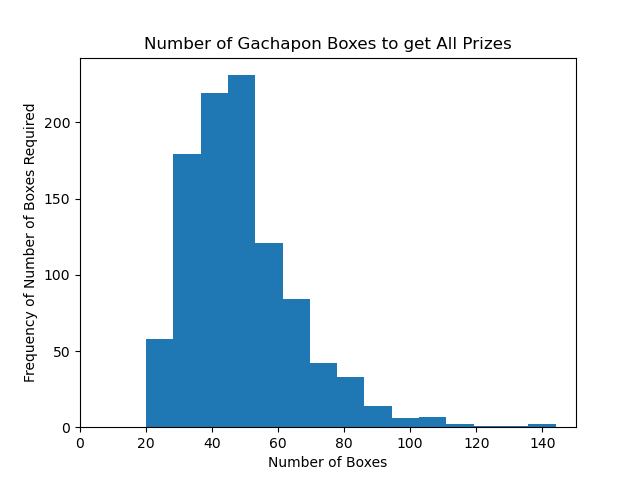
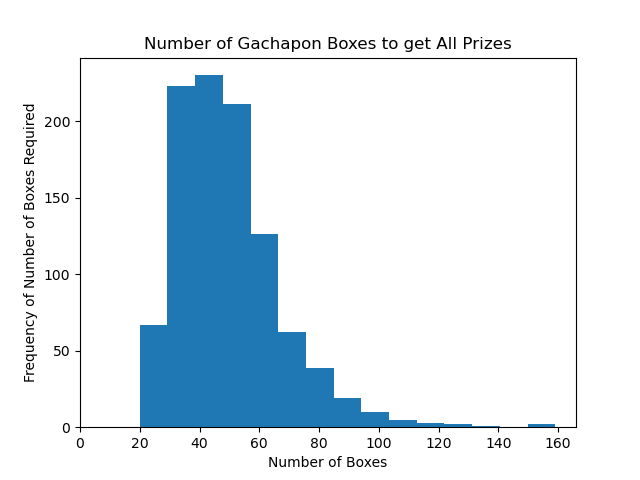
gachapon is working

diff --git a/lab5/gachapon.py b/lab5/gachapon.py
@@ -1,0 +1,60 @@
+#!/usr/bin/env python
+
+import numpy as np
+import statistics
+import argparse
+
+class GachaponSimulator:
+
+    np.random.seed()
+    results = []
+
+    def __init__(self, prizes_n):
+        self.prizes_n = prizes_n  # integer
+        self.results = []
+        self.summary = {}
+        self.one_sim = ()
+
+
+    def _simulate_once(self):
+        sim_results = []
+        gachapon_list = list(range(0, self.prizes_n))
+        while all(item in sim_results for item in gachapon_list) is False:
+            add_number = np.random.randint(0, self.prizes_n)
+            sim_results.append(add_number)
+        else:
+            self.one_sim = len(sim_results)
+            return self.one_sim
+
+
+    def reset(self):
+            self.results = []
+            return self.results
+
+
+    def simulate(self, num_games):
+        for i in range(num_games):
+            iteration = GachaponSimulator._simulate_once(self)
+            self.results.append(iteration)
+        return self.results
+
+
+    def get_summary_stats(self):
+        global mean
+        global stdev
+        if not self.results:
+            mean = None
+            stdev = None
+        elif len(self.results) == 1:
+            mean = self.results[0]
+            stdev = None
+        else:
+            mean = sum(self.results)/len(self.results)
+            stdev = statistics.stdev(self.results)
+        self.summary = {'n': len(self.results),
+                        'mean': mean,
+                        'stdev': stdev}
+        return self.summary
+
+parser = argparse.ArgumentParser()
+parser.parse_args()
